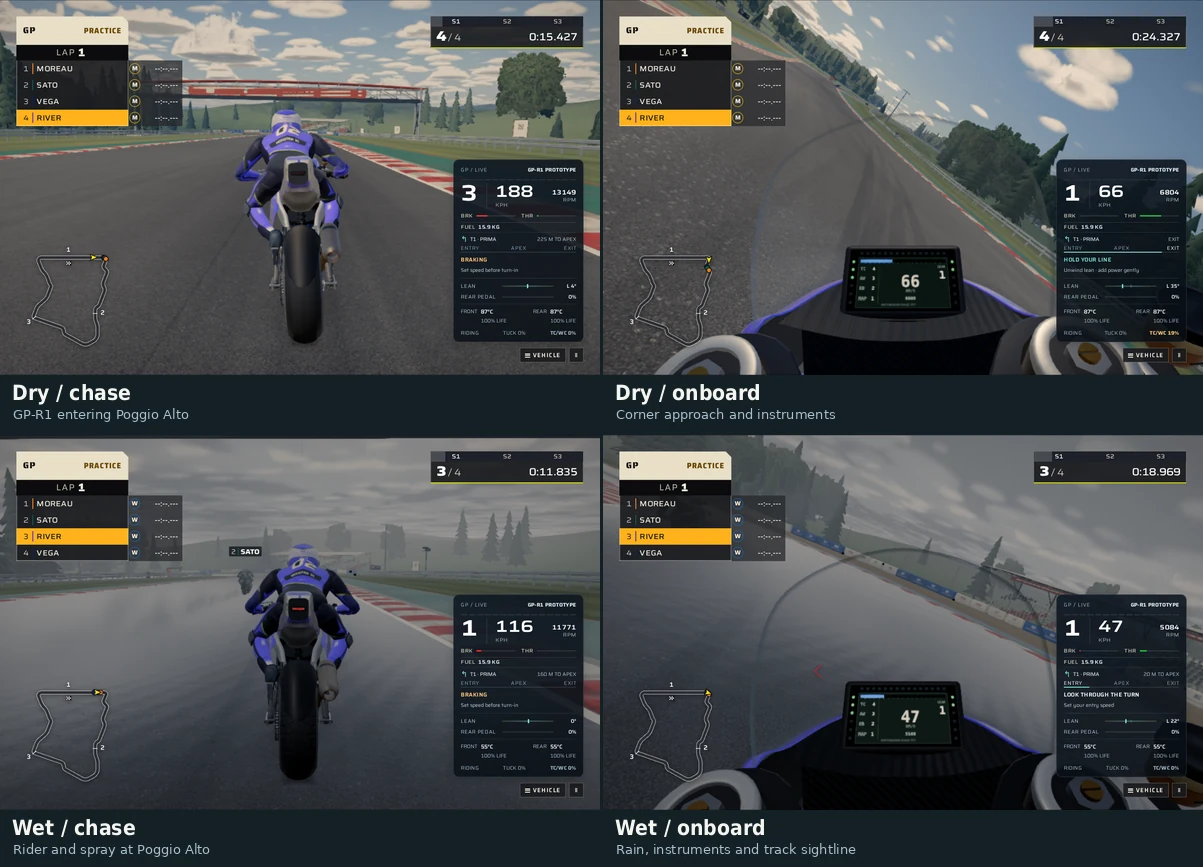
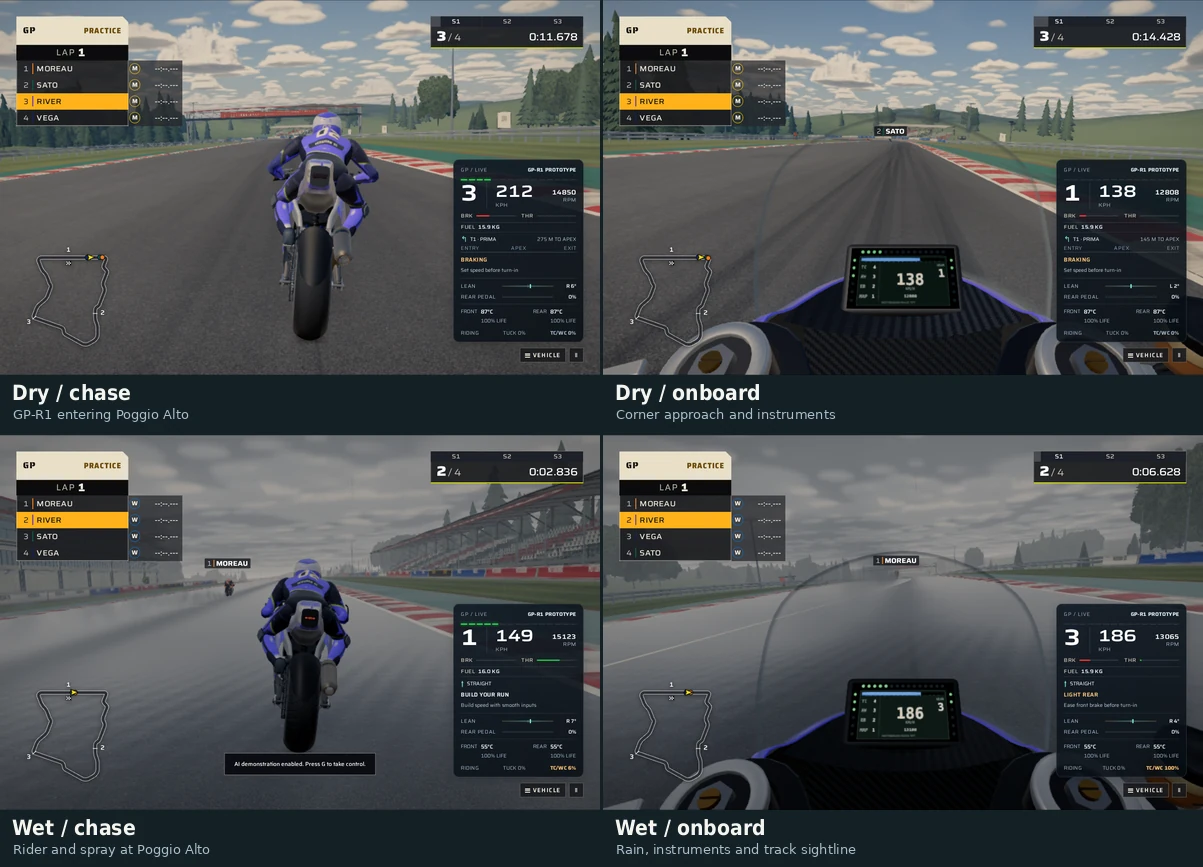
Publish verified dry and wet MotoGP rides and measured High shadow preparation

diff --git a/docs/production/motogp-road-grid/README.md b/docs/production/motogp-road-grid/README.md
@@ -2,9 +2,13 @@
 
 ![Six motorcycles rendered by the game's high-detail Three.js models](evidence/six-motorcycles.webp)
 
-The studio photographs use each motorcycle's high-detail geometry. The two prototypes carry distinct V4 and inline-four engines. The classic has three hollow carburettor bellmouths, ribbed spark plugs, a bolted split crankcase and three expansion chambers. Its oil reservoir sits between the twin shock braces. Across 91 positions covering 90 mm of rear travel, the reservoir cleared the tyre by at least 74 mm at every detail level. A mechanical linkage operates the rear drum. The roadster has a round lamp and handlebar-mounted mirrors. The supersport carries its mirrors on the fairing. The street-equipped bikes reflect the helmet camera's sightline from the mounted glass. The roadster's rearward view sweeps with the bars. The four support-class cockpit cameras use eye positions measured against the rider and instruments. Both equipped bikes keep the mirror centres in view at 4:3, 16:10 and 16:9 through the tested steering and banking angles.
+The studio photographs use the high-detail models from the game. The GP-R1 carries a V4 and the GP-R2 an inline four. The CR750 has three hollow carburettor bellmouths, ribbed spark plugs, a bolted split crankcase and three expansion chambers. A mechanical linkage operates its rear drum. Its oil reservoir sits between the twin shock braces and clears the tyre by at least 74 mm at 91 sampled positions across 90 mm of travel.
 
-[Compare the classic and roadster bodywork](evidence/roadster-and-classic.webp) · [Inspect the CR750 engine bay](evidence/classic-engine.webp) · [Compare the roadster cockpit before and after](evidence/roadster-cockpit.webp) · [Ride onboard the SS600](evidence/supersport-cockpit.webp)
+[Compare the classic and roadster bodywork](evidence/roadster-and-classic.webp) · [Inspect the CR750 engine bay](evidence/classic-engine.webp)
+
+The four support-class cockpit cameras sit at the rider's eye line, with their view checked against the instruments. The NR900 has a round headlamp and handlebar-mounted mirrors. Its view of the track behind sweeps with its bars. The SS600 mounts its mirrors on the fairing. Both bikes reflect the sightline from the rider's eye through each mirror and keep the mirror centres in frame through the tested steering and banking angles at 4:3, 16:10 and 16:9.
+
+[Compare the NR900 cockpit before and after](evidence/roadster-cockpit.webp) · [Ride onboard the SS600](evidence/supersport-cockpit.webp)
 
 ## On the circuit
 
@@ -14,7 +18,7 @@ Tyre width, crown and rolling radius follow the machine. The fixed-step simulati
 
 [Watch a GP-R2 turn in at Poggio Alto](evidence/poggio-corner.mp4) · [See the live race number, position and lap on the pit wall](evidence/pit-wall.webp)
 
-The 2.5-second film follows one motorcycle in an eight-rider simulation using a controlled trailing camera and lighting. Each of its 60 frames advances the production simulation by five ticks at 120 Hz. The dry and wet chase and cockpit stills above were captured in the production application at 1280 × 800 using its Low preset.
+The 2.5-second film follows one motorcycle in an eight-rider simulation using a controlled trailing camera and lighting. Each of its 60 frames advances the production simulation by five ticks at 120 Hz. The dry and wet chase and cockpit stills above come from four-rider practice in the production application at 1280 × 800. Both runs started from the Low preset. The wet run set particle density to 100% in the garage to exercise spray from both tyres.
 
 ## Wheel motion and field cost
 
@@ -24,7 +28,9 @@ At 112 radians per second and a 1/180-second exposure, the real-time spokes redu
 
 A distant prototype now keeps its helmet on the same physical path as the closer rider. Across five poses the old model switch displaced the helmet by up to 58.7 mm. The two levels now agree within 0.1 mm. The change keeps the same 18 mesh batches and 2,268 triangles on each distant prototype rider. The distant support-class suits retain the outline of the back protector with 60 additional triangles apiece in their existing batches.
 
-Seven rival motorcycles now require seven empty transform nodes to host their animated models. In the same browser the previous hosts constructed 959 unused meshes and allocated 40.45 MiB of geometry arrays before drawing the motorcycles. The counted bytes exclude GPU allocations. During startup, the discarded shadow pass submits one triangle from each eligible material group and waits for the GPU before drawing the chase camera. The actual race uses the complete caster geometry.
+Seven rival motorcycles now require seven empty transform nodes to host their animated models. In the same browser the previous hosts constructed 959 unused meshes and allocated 40.45 MiB of geometry arrays before drawing the motorcycles. These measurements cover CPU geometry arrays.
+
+During startup, the discarded shadow pass submits one triangle from each eligible material group and waits for the GPU before drawing the chase camera. At Poggio Alto, the four-bike High-preset warmup submitted 2,281 triangles across 2,281 eligible material groups. Their original draw ranges contained 1,653,547 triangles. The race uses the complete caster geometry.
 
 ## Verification
 
@@ -32,4 +38,6 @@ Eight seeded three-lap races covered Poggio Alto, Montejaral, Cape Wrenna and Ha
 
 A separate two-lap Aurel regression previously lost a prototype under braking at tick 2,365. After the yaw correction, all eight riders finished that race without a fall, collision or penalty. Two further Poggio Alto runs met the same checks in dry and wet conditions. One 24-second sequence of recorded steering, braking and throttle produced byte-identical wheel, rider and race snapshots at all 2,880 physics ticks when driven by 30 Hz, 60 Hz, 144 Hz and irregular frame clocks.
 
-The render captures used Chromium and Mesa software rendering. Native console frame pacing, controller-to-display latency and sustained performance on physical target GPUs still need hardware measurements.
+Two independent production builds produced the same SHA-256 source fingerprint, recorded in the validation file. Four-rider dry and wet browser journeys passed against the build from the reviewed commit. The dry journey exercised manual control, cockpit, pause and recorded replay. The wet journey verified live tyre spray, moving chase and cockpit views, and a stationary simulation clock during pause.
+
+The studio images and circuit film used Chromium and Mesa software rendering. A separate four-bike High-preset run at 1120 × 700 reached the cockpit warmup and then lost its WebGL context on Mesa llvmpipe. Native console frame pacing, controller-to-display latency and sustained performance on physical target GPUs still need hardware measurements.
